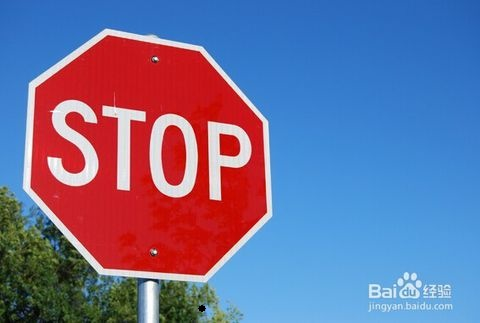
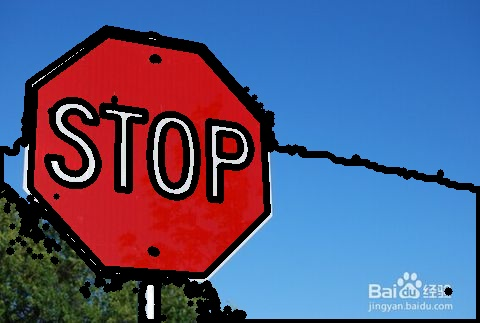
n

Changed region(s): [[0.0, 0.0619, 1.0, 1.0], [0.4375, 0.743, 0.5, 0.8359], [0.9062, 0.8978, 0.9375, 0.9288]]

diff --git a/new.py b/new.py
@@ -10,7 +10,7 @@ ret,thresh = cv2.threshold(imgray,127,255,0)
 #th3 = cv2.adaptiveThreshold(imgray,255,cv2.ADAPTIVE_THRESH_GAUSSIAN_C,cv2.THRESH_BINARY,11,2)
 im2, contours, hierarchy = cv2.findContours(thresh,cv2.RETR_CCOMP,cv2.CHAIN_APPROX_SIMPLE)
 #waijie lunkuo external hen useful!
-cv2.drawContours(img, contours, 2, (0,0,0), 5)
+cv2.drawContours(img, contours, -1, (0,0,0), 5)
 cv2.imwrite("c.jpg", img)
 #cv2.imshow("canny", cv2.imread("canny.jpg"))
 '''
